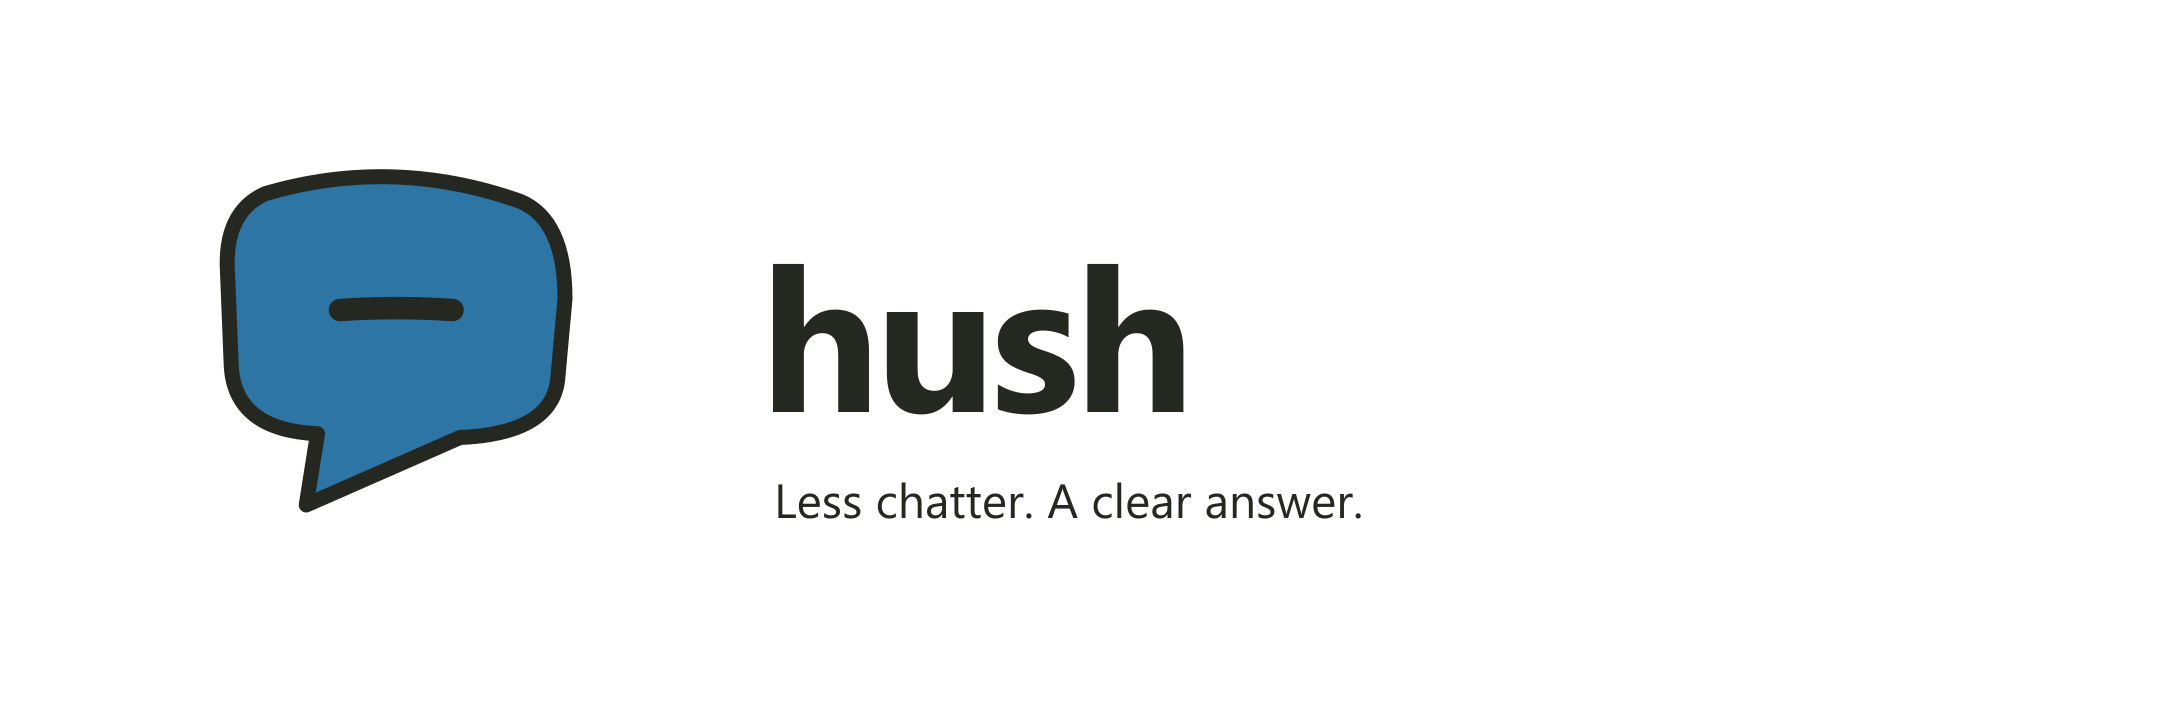
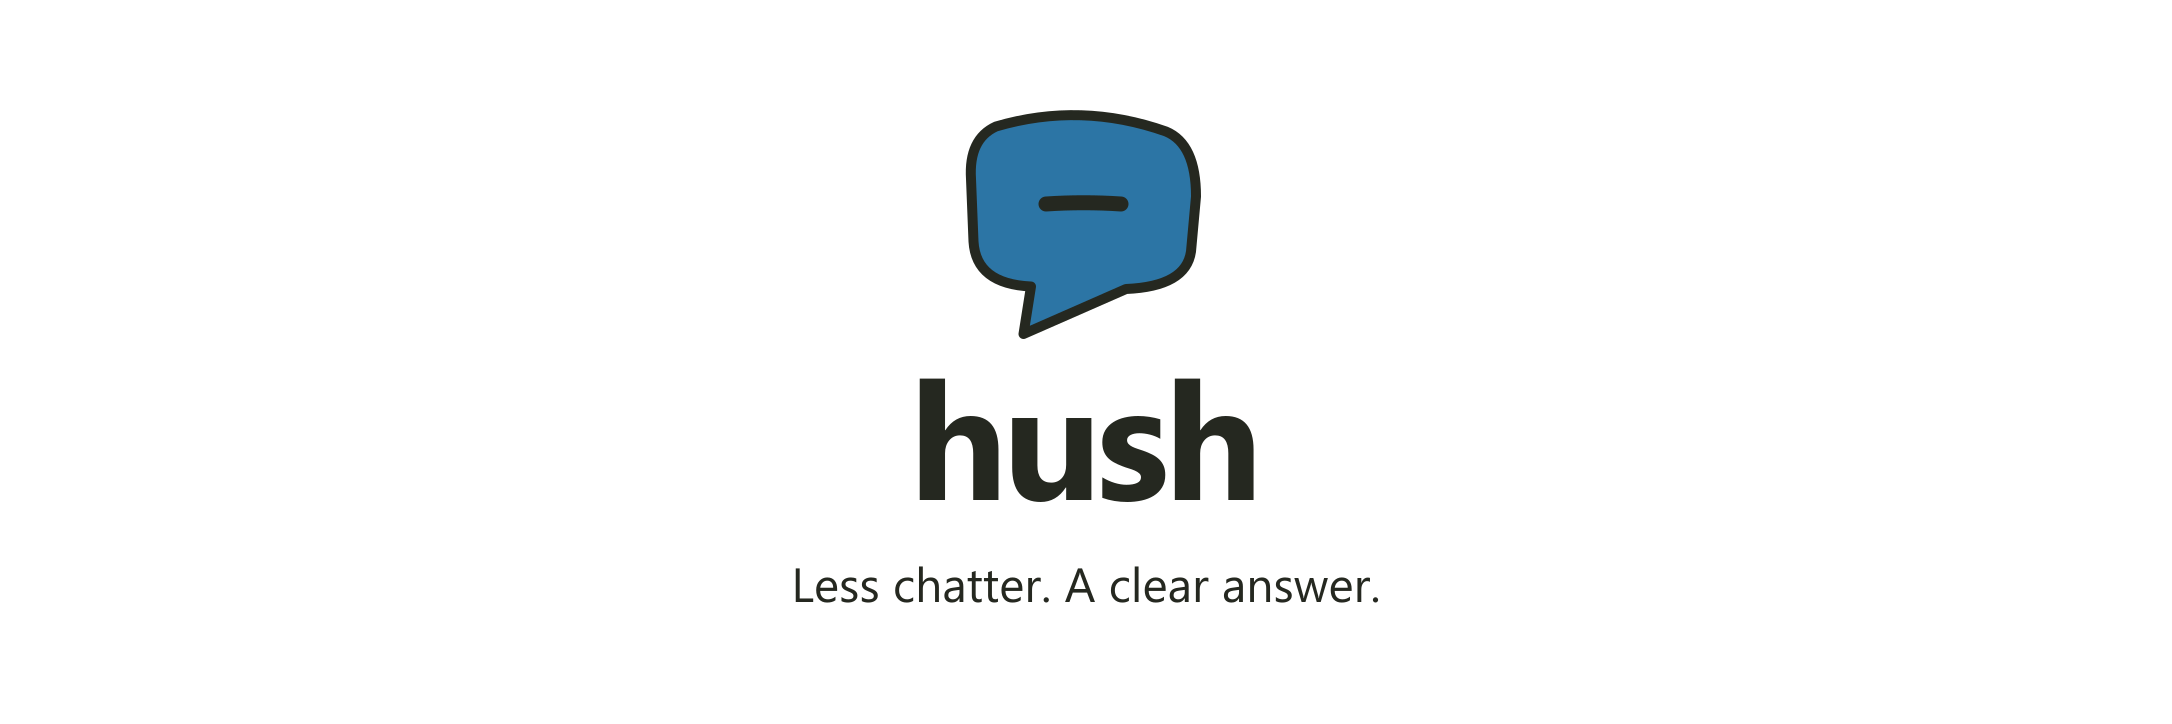
docs: center README branding and edition navigation (#17)

Changed region(s): [[0.3393, 0.1519, 0.6169, 0.7293], [0.0925, 0.2127, 0.2776, 0.6989], [0.3702, 0.7901, 0.6478, 0.8508]]

diff --git a/README.md b/README.md
@@ -8,11 +8,18 @@
   <p><strong>You asked for a change. Read what changed.</strong></p>
 </div>
 
+<p align="center"><strong>Available on</strong></p>
+<p align="center">
+  <img src="assets/edition-codex.svg" alt="Codex" width="80" height="80" />&emsp;&emsp;<a href="https://github.com/V-Songbird/hush/tree/Claude"><img src="assets/edition-claude.svg" alt="Claude" width="80" height="80" /></a><br />
+  <del>Codex</del>&emsp;&emsp;&emsp;&emsp;<a href="https://github.com/V-Songbird/hush/tree/Claude">Claude</a>
+</p>
+<p align="center"><small>Codex is not currently installable.</small></p>
+
 <!-- foundry:platform identity -->
-**Edition: Claude Code.** Use this edition’s installation and compatibility notes below.
+<p align="center"><strong>Edition: Claude Code.</strong> Use this edition’s installation and compatibility notes below.</p>
 <!-- /foundry:platform identity -->
 
-[Install](#install) · [Using Hush](#what-you-can-do) · [Evidence](#the-numbers) · [Limits](#good-to-know)
+<p align="center"><a href="#install"><strong>Get started</strong></a> · <a href="#what-is-this">What is this?</a> · <a href="#how-it-works">How it works</a> · <a href="#what-you-can-do">What you can do</a> · <a href="#the-numbers">Evidence</a></p>
 
 ## What is this?
 
